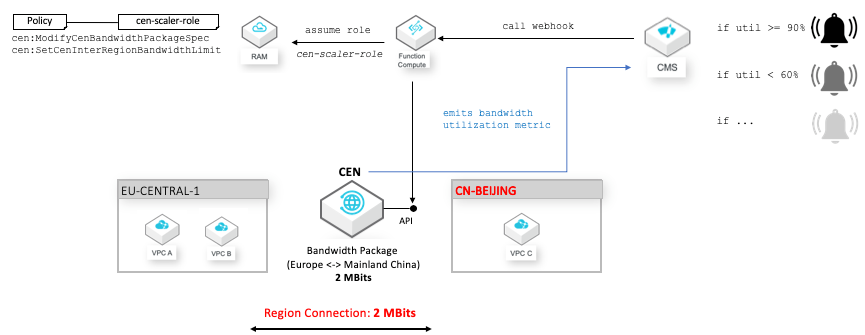
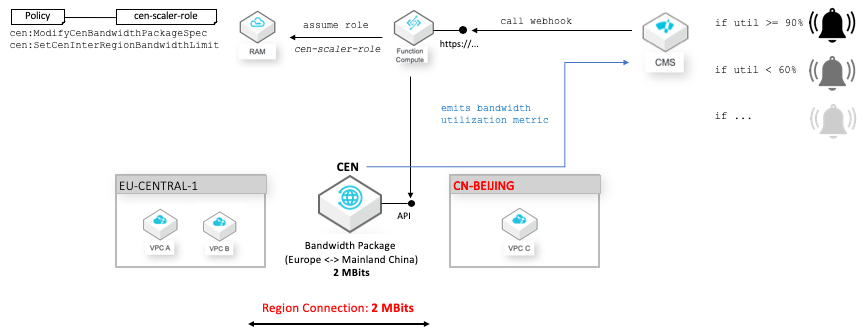
updated

diff --git a/README.md b/README.md
@@ -63,15 +63,16 @@ Before you can actually install CEN Scaler in your account you need to make some
     * Set the shared secret variable ([see here](https://github.com/arafato/CEN-Scaler/blob/master/terraform/metric/variables.tf#L8)) to a secure value. It is shared between the Cloud Monitor alarms and the Function Compute service to restrict access to it since it has a public endpoint
 
 * Edit `./terraform/metric/metricbased.tf`: 
-    * Add / Modify the according Cloud Monitor alarms and define your specific traffic thresholds and metric aggregation. Refer to the two pre-defined alarms `"region_up_eu-central-1_cn-hangzhou"` and `"region_down_eu-central-1_cn-hangzhou"` as an example.
+    * Add / Modify the according Cloud Monitor alarms and define your specific traffic thresholds and metric aggregation. Refer to the two pre-defined alarm resources `"region_up_eu-central-1_cn-hangzhou"` and `"region_down_eu-central-1_cn-hangzhou"` as an example.
     * Add / Modify the `env` variable with the according scaling stragies. A strategy defines the source and target region, and the step. The `step` variable indicates the bandwidth amount in MBit/s on how much to scale up or down the current bandwidth if a certain alarm is triggered. 
 
 To keep the NodeJS code generic, CEN-Scaler expects the following naming conventions when defining the scaling strategies:
 The responsible scaling strategy for a particular alarm needs to be named according to the following convention
 
- `scale_strategy_<TF Resourcename of alarm>` 
+ `scale_strategy_<alarmname>` 
 
-So the Terraform resource name of the alarm needs to be prefixed with `"scale_strategy_"`.
+So the prefix is `"scale_strategy_"`.
+
 # How it works
 This section will discuss the design and inner-workings of both CEN-Scaler modes: Time-based and Metric-based.
 
@@ -84,7 +85,7 @@ Let's look at below diagram first. This picture shows a typical CEN-based setup.
 VPC A and VPC B are both located in `eu-central-1` (Frankfurt). VPC C is located in `cn-beijing` (Beijing), VPC D is located in `cn-shanghai` (Shanghai). All four VPCs are peered together via a single CEN instance meaning all four VPCs can communicate with each other. The CEN-Instance has an assiged bandwidth package of 20 MBits. This bandwidth is equally distributed (2x 10 MBits) across two region connections: Frankfurt-Beijing and Frankfurt-Shanghai. Communication is between the various VPCs is routed over Alibaba Cloud's private global backbone network.
 
 Bandwidth packages can be freely up- and down-scaled to optimize on costs. So during times where less bandwith is needed (e.g. during weekends), bandwidth can be scaled down to lower values, e.g. 10 MBits. In this case, also the according region connection values need to be updated. Since we distribute the bandwidth equally, we need to set the values to 5 MBits each. During workdays we upscale bandwidth again to 20 Mbits (und also update the region connection values). 
-CEN Scaler helps you to easily configure and automate such tasks. Below figure depicts how CEN Scaler works: 
+CEN Scaler helps you to easily configure and automate such tasks. Below figure depicts how CEN Scaler (time-based mode) works: 
 
 ![CEN Scaler - Time-based](docs/arch2.png)
 
@@ -96,11 +97,21 @@ The example described here is implemented in our [default metric template](https
 We want to automatically upscale the current region bandwidth by 1 MBit/s if the every minute average utilization of the current region bandwidth was above 90% for the last 2 minutes. Likewise we would like to downscale the current bandwidth by 1 Mbit/s if the average utilization was below 60% for the last 3 minutes.
 No matter if we up- or downscale, we also need to adjust the current bandwidth package accordingly that is attached to the CEN instance.
 
+Below picture depicts how CEN Scaler metric-based version works:
+
 ![CEN Scaler - Metrics-based](docs/metrics.png)
 
+The CEN service continuously sends metrics about the current utilization of the outbound rate of the region connectivity between `eu-central-1` and `cn-beijing`.
+
+Based on your Terraform configuration CEN Scaler will create different threshold alarms which work on a minute-level resolution. In our example, we have defined two alarms: one that gets triggered once the average is utilization is greater equal 90% for at least 2 minutes of the current maximum bandwidth, and one that is triggered if the average utilization is below 60% for the last 3 minutes. You are free to define as many alarms you need to accomodate for your requirements.
+
+Once an alarm is triggered it will call a webhook (POST request) which is exposed by an HTTP-Trigger of our Function Compute service. This endpoint is secured by a shared secret which you have configured in your Terraform variables script (see configuration instructions above). Based on the alarm name (which is sent as part of the request body) the Function Compute service can select the according scaling strategy which is exposed as an environment variable.
+It will then do the scaling: first, it will up/downscale the bandwidth of the CEN bandwidth package, and the up/downscale the region connection by the same value.
+
+CEN Scaler will also setup the neccessary RAM service role and minimum permissions needed to scale the CEN bandwidth and region connection bandwidth. Function Compute will then assume this role and use a temporary token issued by Alibaba Cloud Secure Token Service (STS) to authorize itself against the CEN API when it is triggered.
 
 # Roadmap
-- We are currently working on supporting Cloud Monitor events and alarms to trigger scaling actions. This will allows for metric-based scaling rules for CEN.
+- We are currently working on integrating an error queue that lets you monitor and react on any errors that happended during up/downscaling CEN bandwidth capacity.
 
 # Contributions
 ## What do I need to know to help?
